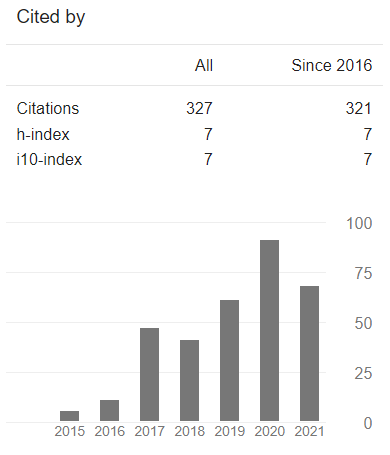
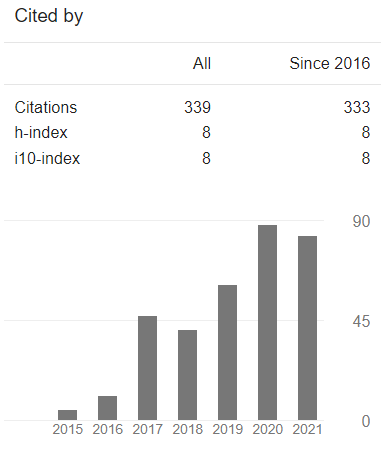
updated

diff --git a/publications.html b/publications.html
@@ -65,9 +65,14 @@
 </ul>	
 <br>
 	
-<h4>Transactions and Journals (7) (Total Impact Factor: 20.59) ------------------------</h4>
+<h4>Transactions and Journals (8) (Total Impact Factor: 24.324) ------------------------</h4>
 <ul class="fa-ul">
 
+<li><i class="fa-li fa fa-circle-o"></i> Dileep Kumar Soother, Sanaullah Mehran Ujjan, Kapal Dev, Sunder Ali Khowaja,<b> Naveed Anwar Bhatti </b>, Tanweer Hussain"<a
+        href="https://www.sciencedirect.com/science/article/abs/pii/S0743731521002033" target="_blank">
+	Towards soft real-time fault diagnosis for edge devices in industrial IoT using deep domain adaptation training strategy</a>", 
+		<em>Elsevier Journal of Parallel and Distributed Computing</em>, November 2021.<font color="red"> (Impact Factor = 3.734)<a
+        href="https://hjrs.hec.gov.pk/index.php?r=site%2Fresult&id=884980#journal_result" target="_blank"><b>(HJRS = W)</b></font><br /><br /></li>
 
 <li><i class="fa-li fa fa-circle-o"></i> Ali Akbar Shah, <b> Naveed Anwar Bhatti </b>, Kapal Dev, B.S Chowdhry"<a
         href="https://ieeexplore.ieee.org/abstract/document/9349626" target="_blank">
